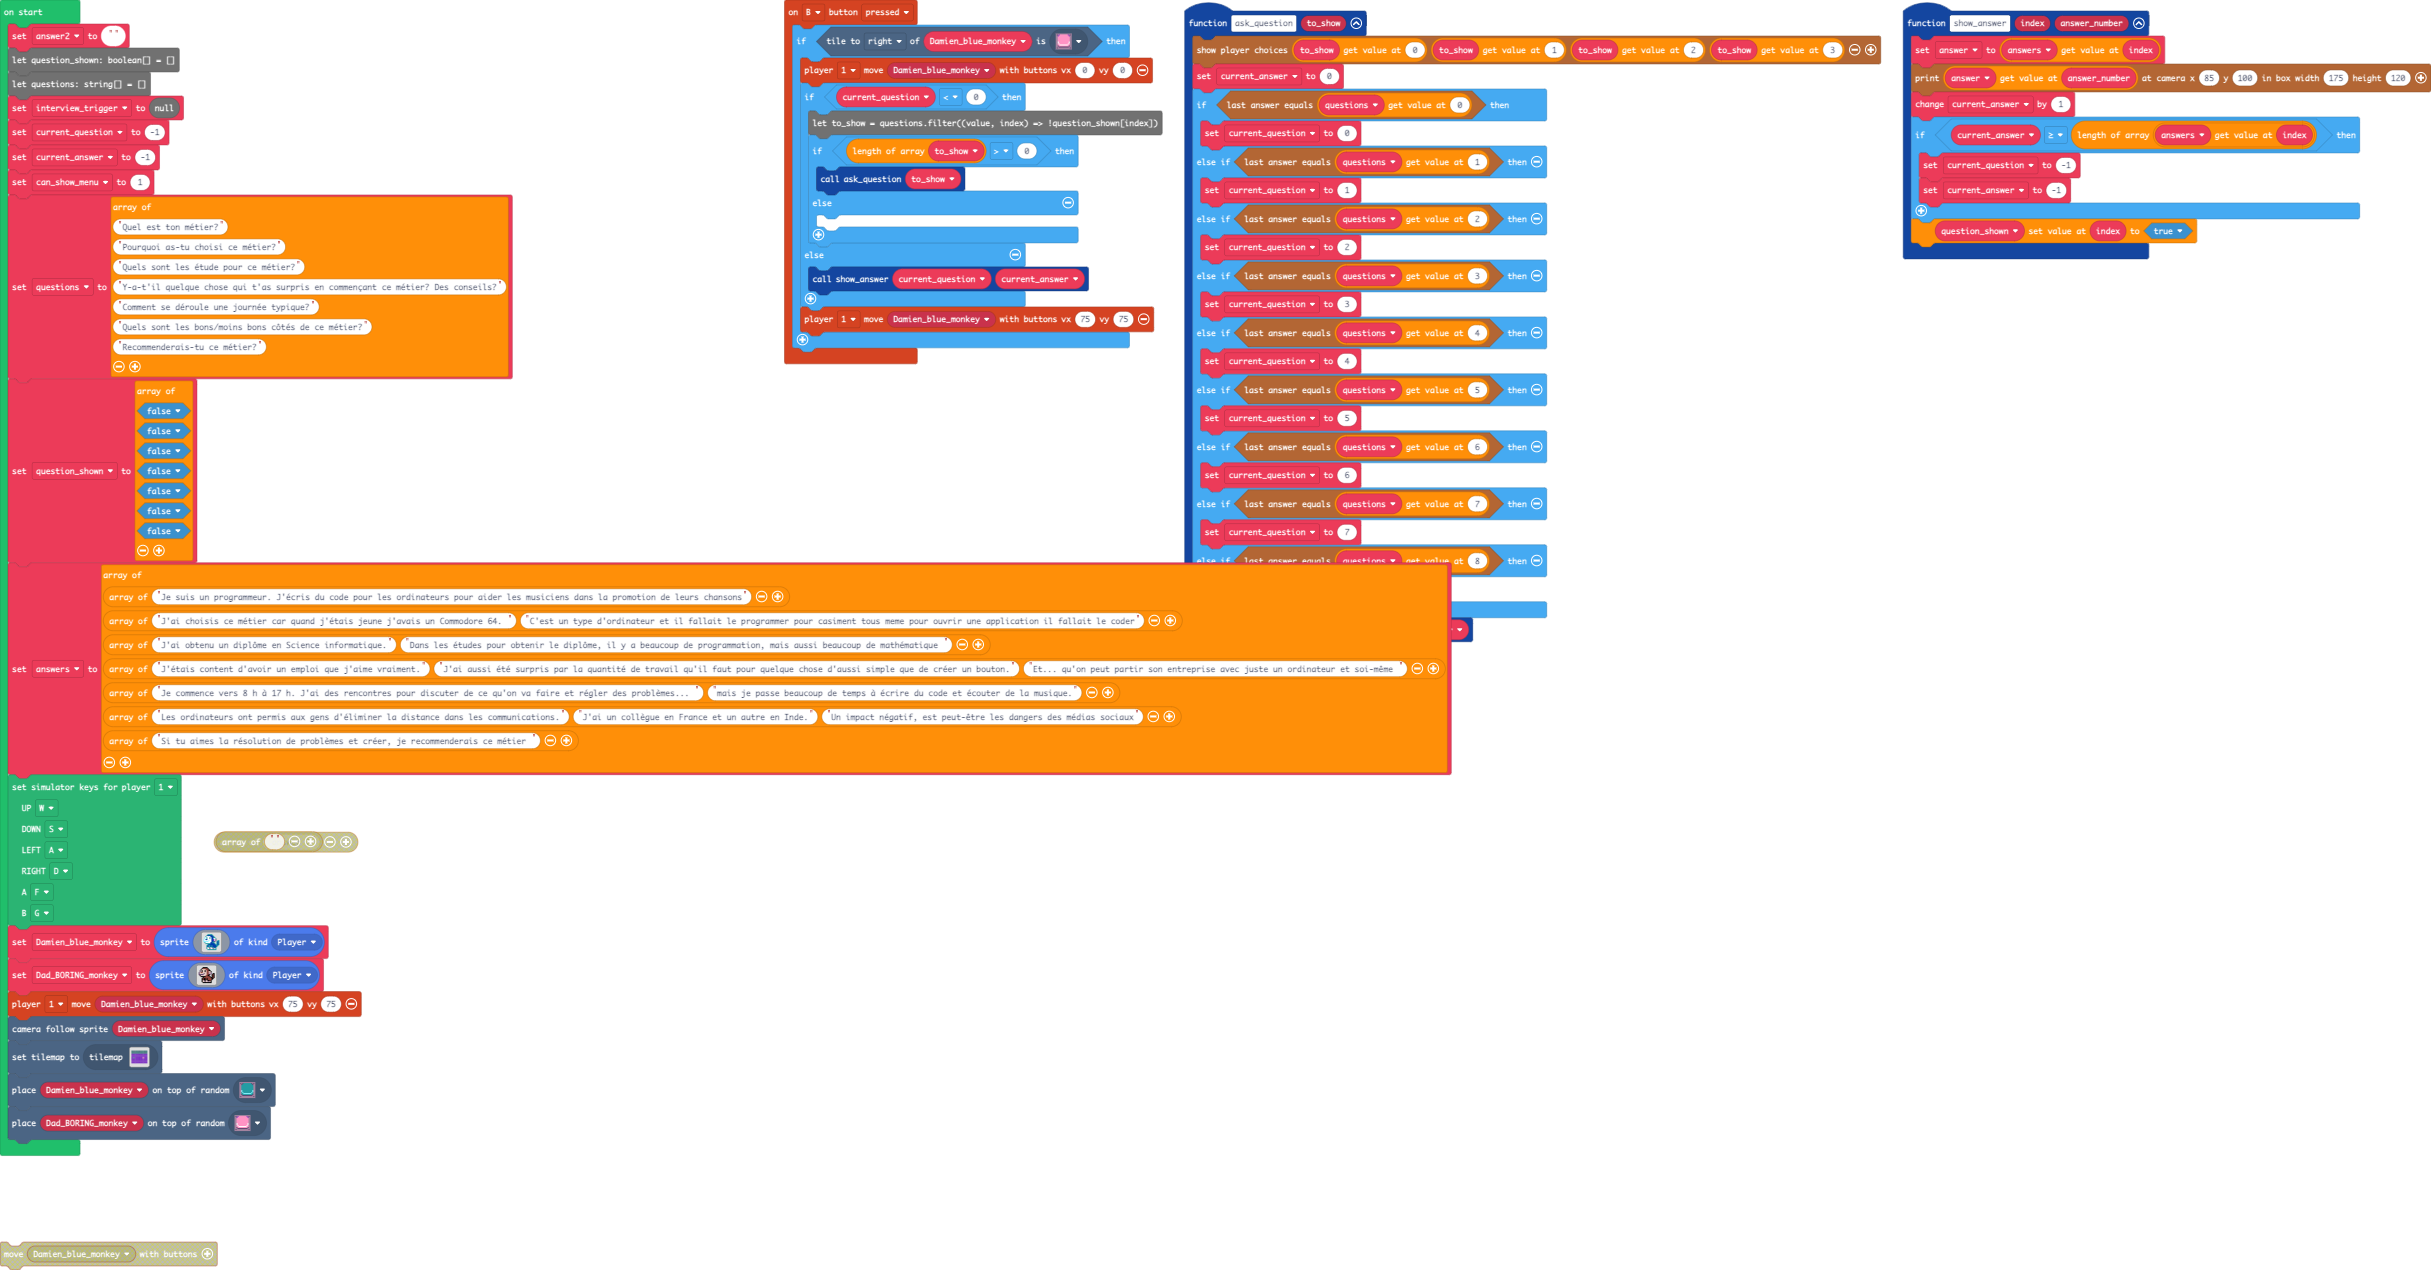
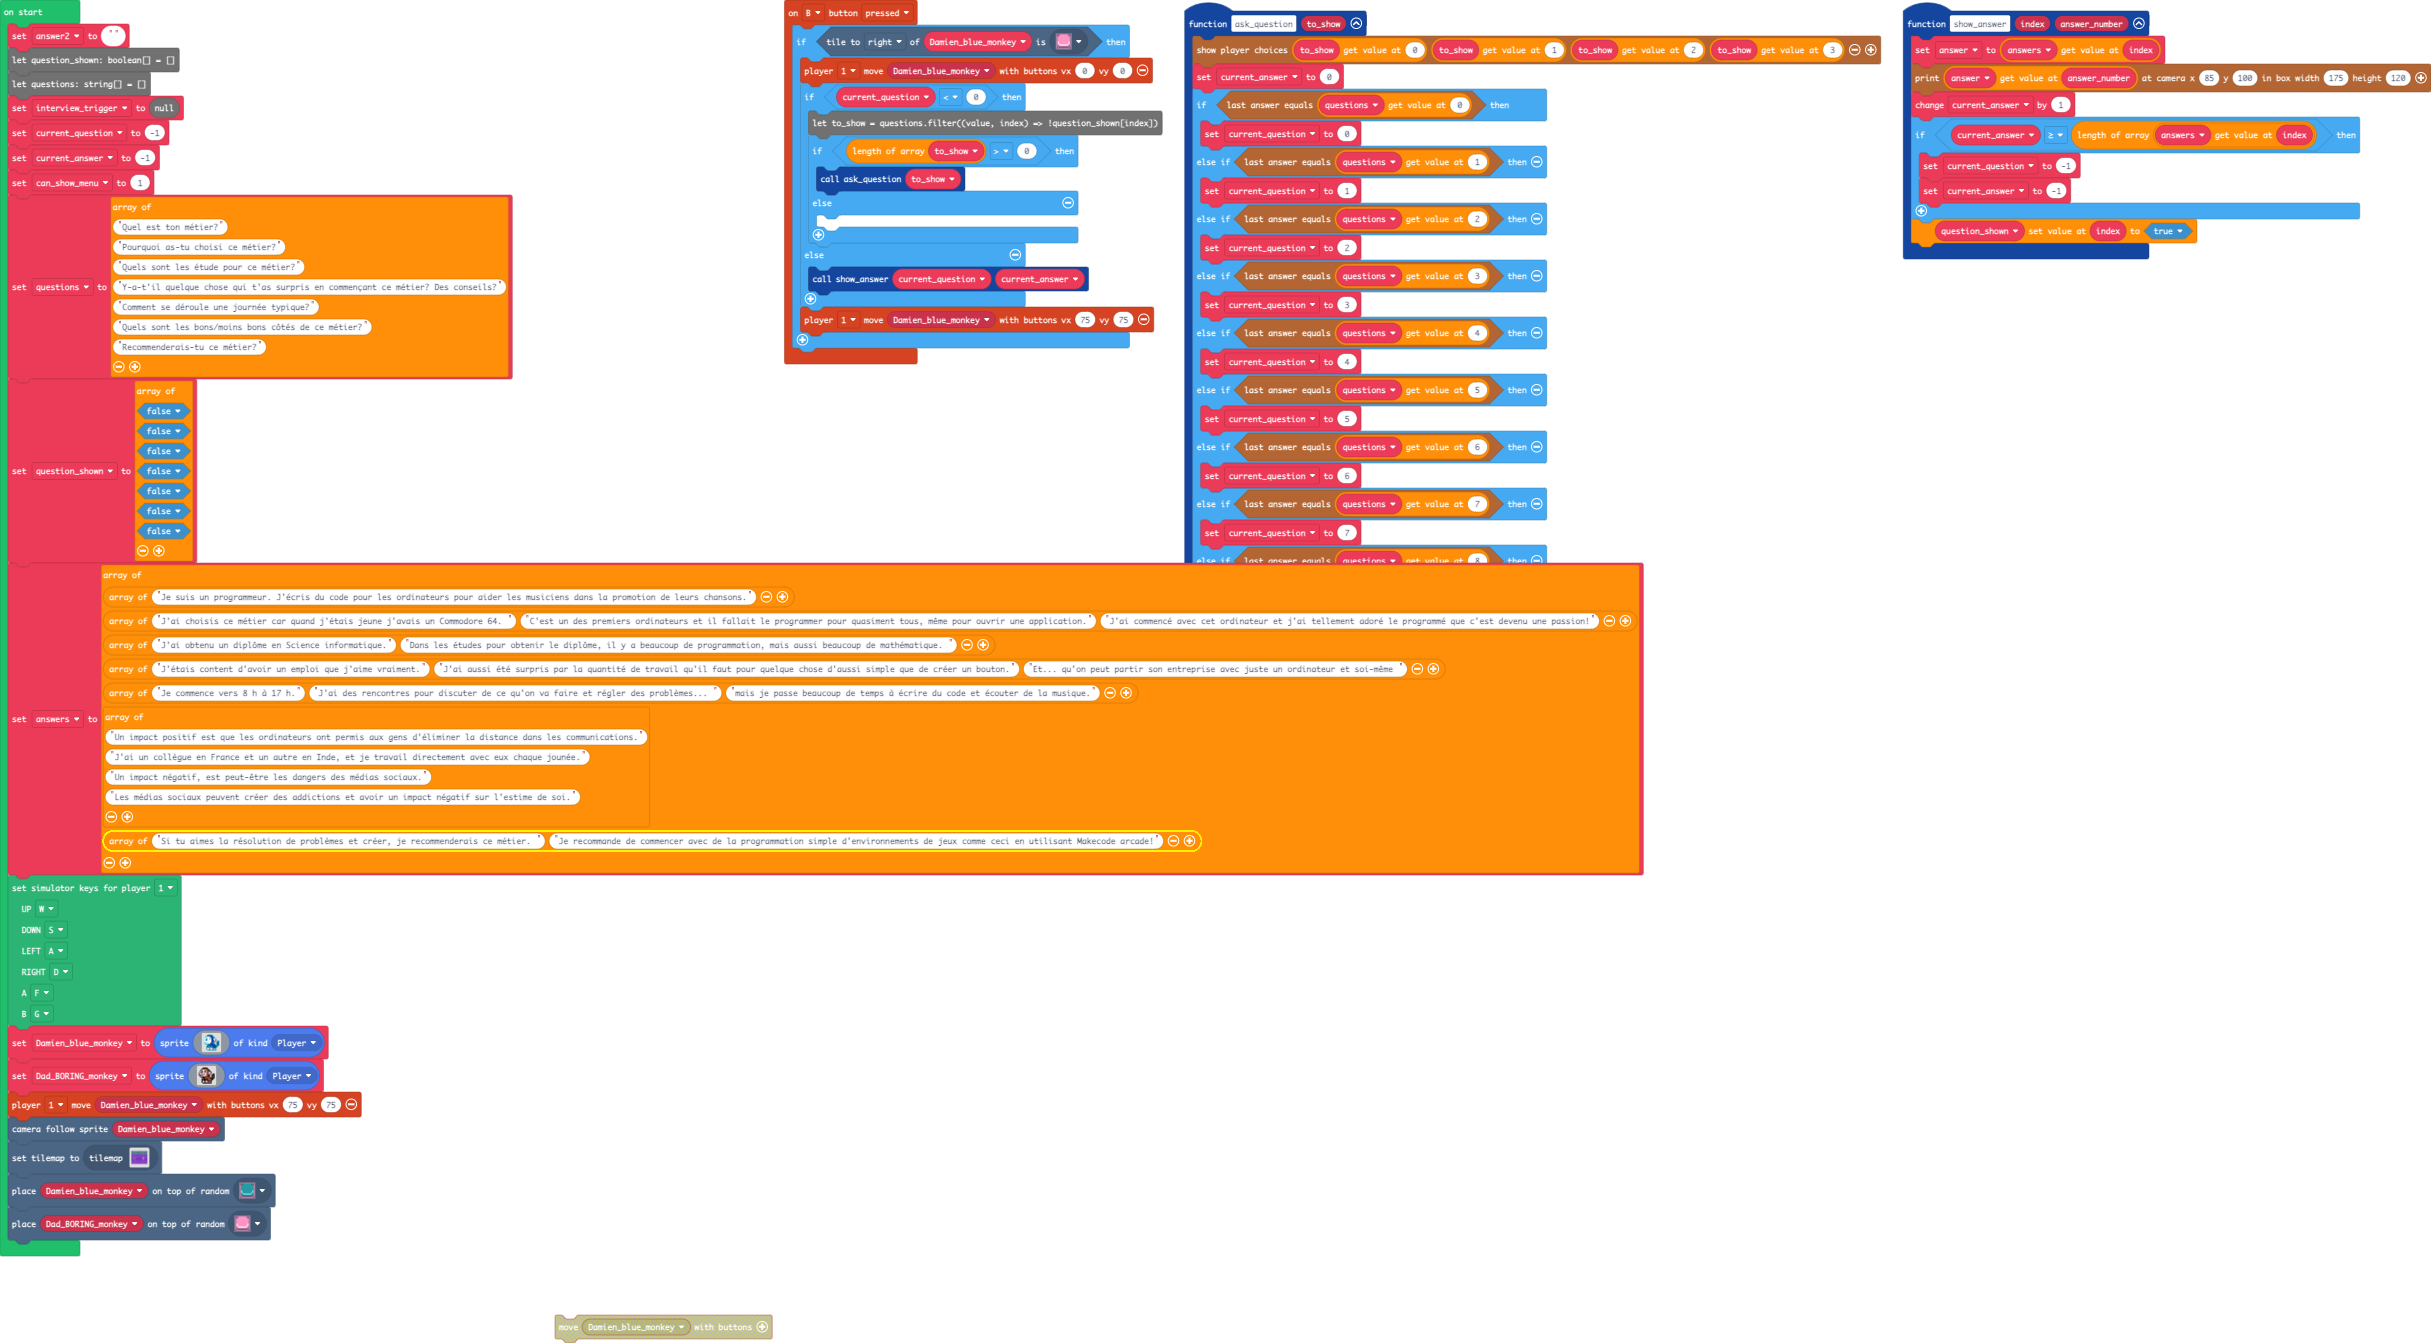
Updated questions

Changed region(s): [[0.0, 0.0, 1.0, 1.0], [0.216, 0.952, 0.3394, 1.0]]

diff --git a/main.ts b/main.ts
@@ -79,13 +79,18 @@ false,
 false
 ]
 answers = [
-["Je suis un programmeur. J'écris du code pour les ordinateurs pour aider les musiciens dans la promotion de leurs chansons"],
-["J'ai choisis ce métier car quand j'étais jeune j'avais un Commodore 64. ", "C'est un type d'ordinateur et il fallait le programmer pour casiment tous meme pour ouvrir une application il fallait le coder"],
-["J'ai obtenu un diplôme en Science informatique.", "Dans les études pour obtenir le diplôme, il y a beaucoup de programmation, mais aussi beaucoup de mathématique "],
+["Je suis un programmeur. J'écris du code pour les ordinateurs pour aider les musiciens dans la promotion de leurs chansons."],
+["J'ai choisis ce métier car quand j'étais jeune j'avais un Commodore 64. ", "C'est un des premiers ordinateurs et il fallait le programmer pour quasiment tous, même pour ouvrir une application.", "J'ai commencé avec cet ordinateur et j'ai tellement adoré le programmé que c'est devenu une passion!"],
+["J'ai obtenu un diplôme en Science informatique.", "Dans les études pour obtenir le diplôme, il y a beaucoup de programmation, mais aussi beaucoup de mathématique. "],
 ["J'étais content d'avoir un emploi que j'aime vraiment.", "J'ai aussi été surpris par la quantité de travail qu'il faut pour quelque chose d'aussi simple que de créer un bouton.", "Et... qu'on peut partir son entreprise avec juste un ordinateur et soi-même "],
-["Je commence vers 8 h à 17 h. J'ai des rencontres pour discuter de ce qu'on va faire et régler des problèmes... ", "mais je passe beaucoup de temps à écrire du code et écouter de la musique."],
-["Les ordinateurs ont permis aux gens d'éliminer la distance dans les communications.", "J'ai un collègue en France et un autre en Inde.", "Un impact négatif, est peut-être les dangers des médias sociaux"],
-["Si tu aimes la résolution de problèmes et créer, je recommenderais ce métier "]
+["Je commence vers 8 h à 17 h.", "J'ai des rencontres pour discuter de ce qu'on va faire et régler des problèmes... ", "mais je passe beaucoup de temps à écrire du code et écouter de la musique."],
+[
+"Un impact positif est que les ordinateurs ont permis aux gens d'éliminer la distance dans les communications.",
+"J'ai un collègue en France et un autre en Inde, et je travail directement avec eux chaque jounée.",
+"Un impact négatif, est peut-être les dangers des médias sociaux.",
+"Les médias sociaux peuvent créer des addictions et avoir un impact négatif sur l'estime de soi."
+],
+["Si tu aimes la résolution de problèmes et créer, je recommenderais ce métier. ", "Je recommande de commencer avec de la programmation simple d'environnements de jeux comme ceci en utilisant Makecode arcade!"]
 ]
 MakeyMakey.setSimulatorKeymap(
 MakeyMakey.PlayerNumber.ONE,
